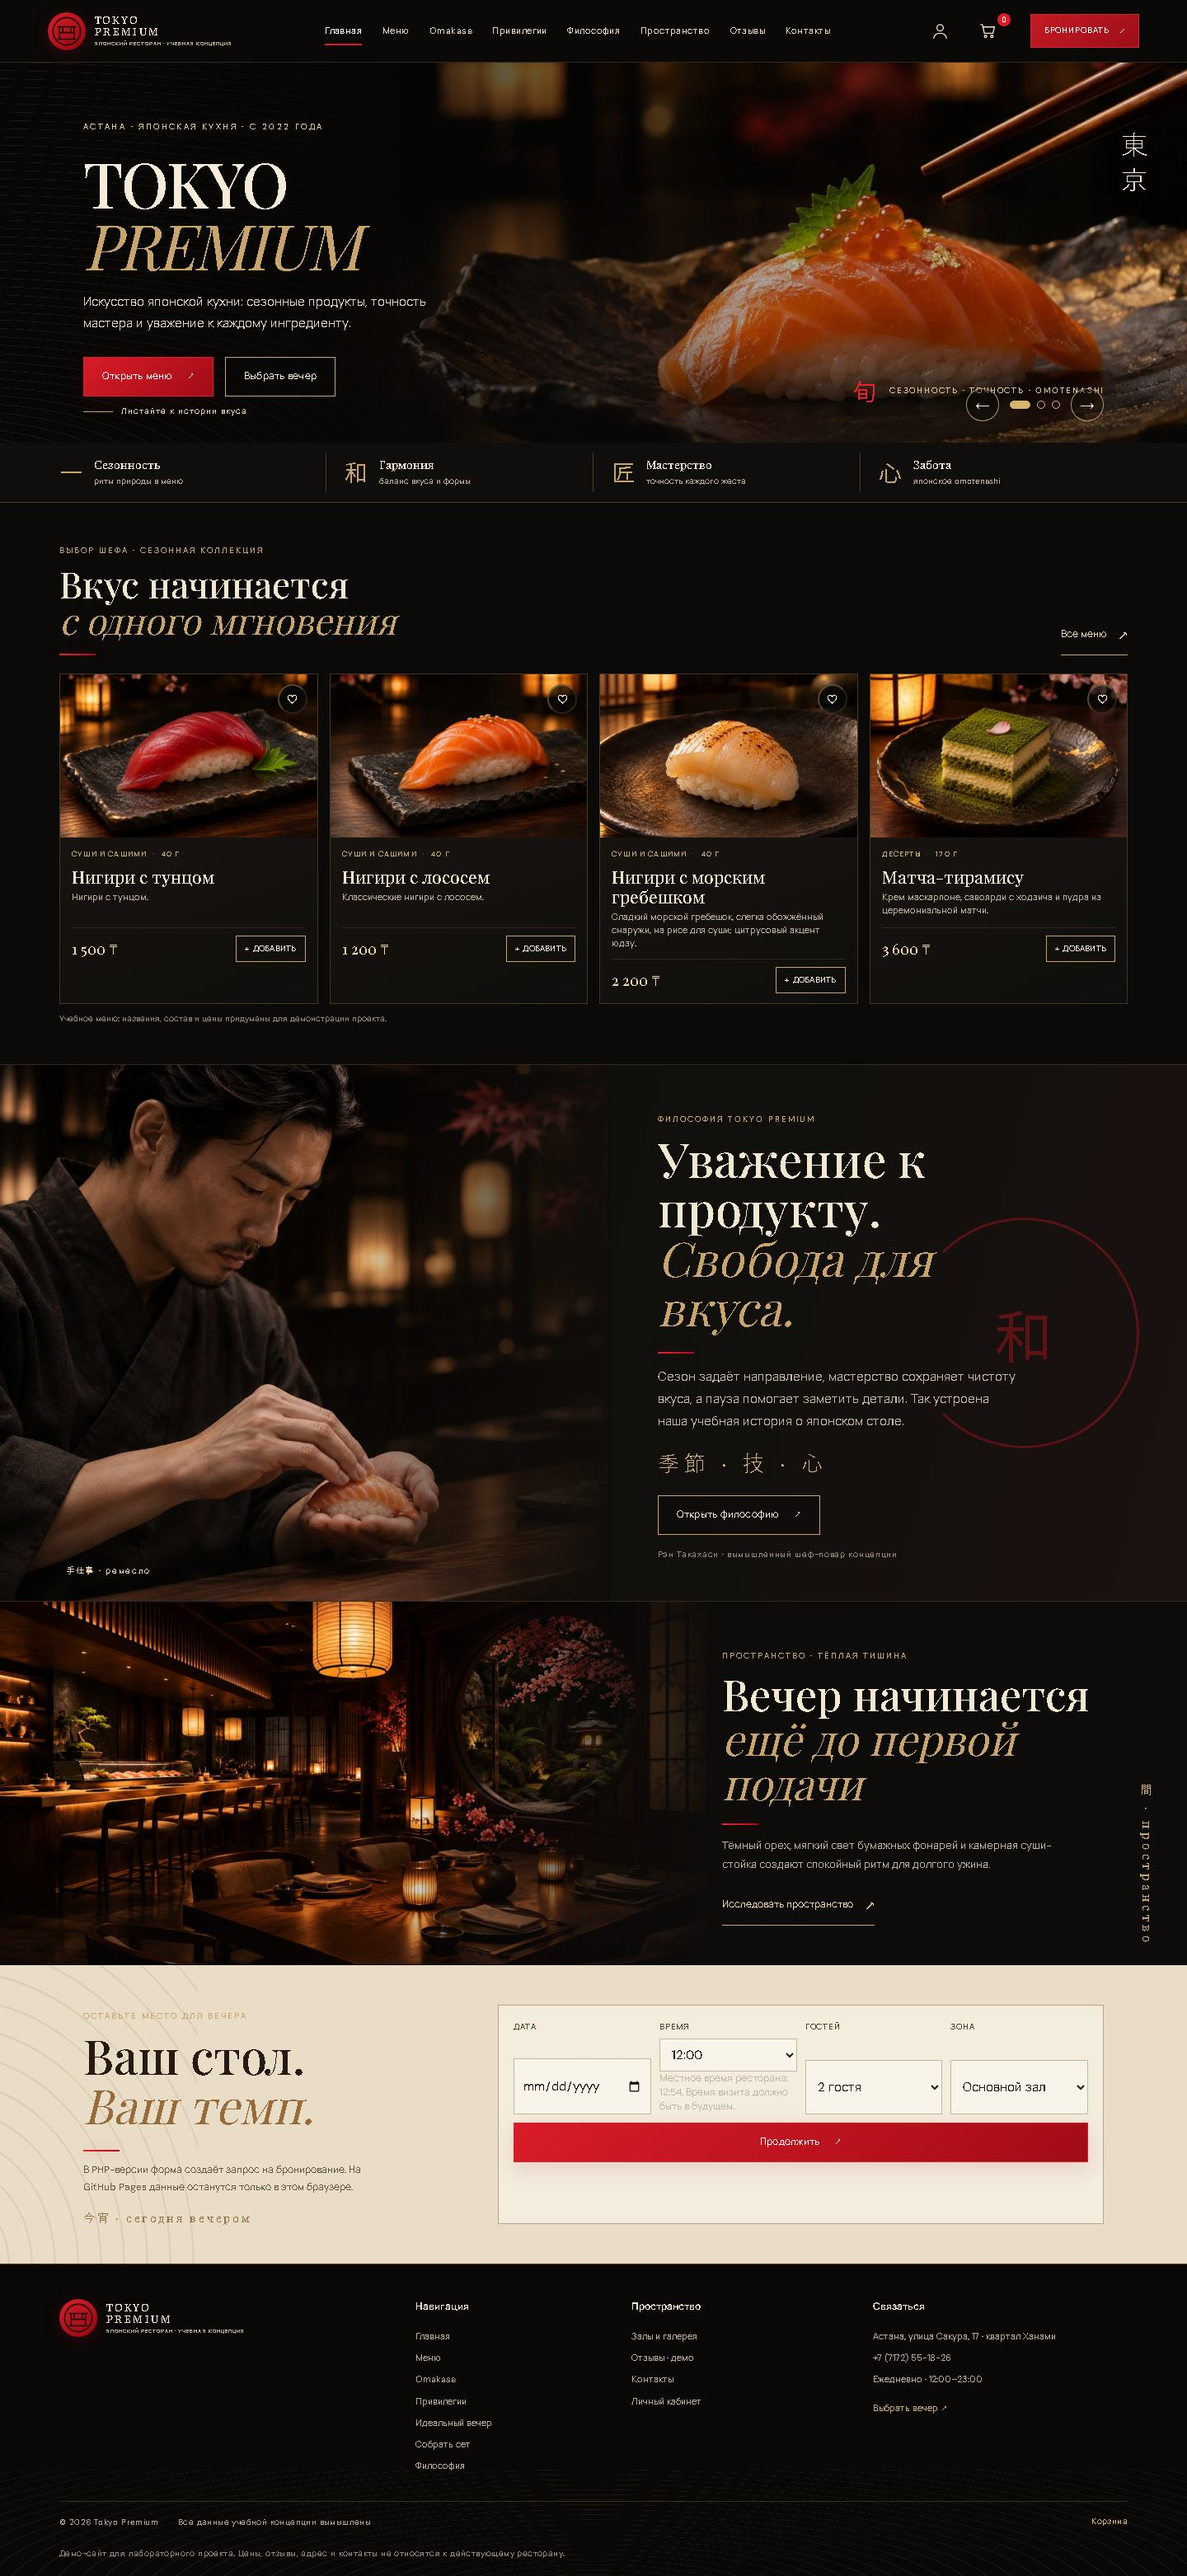
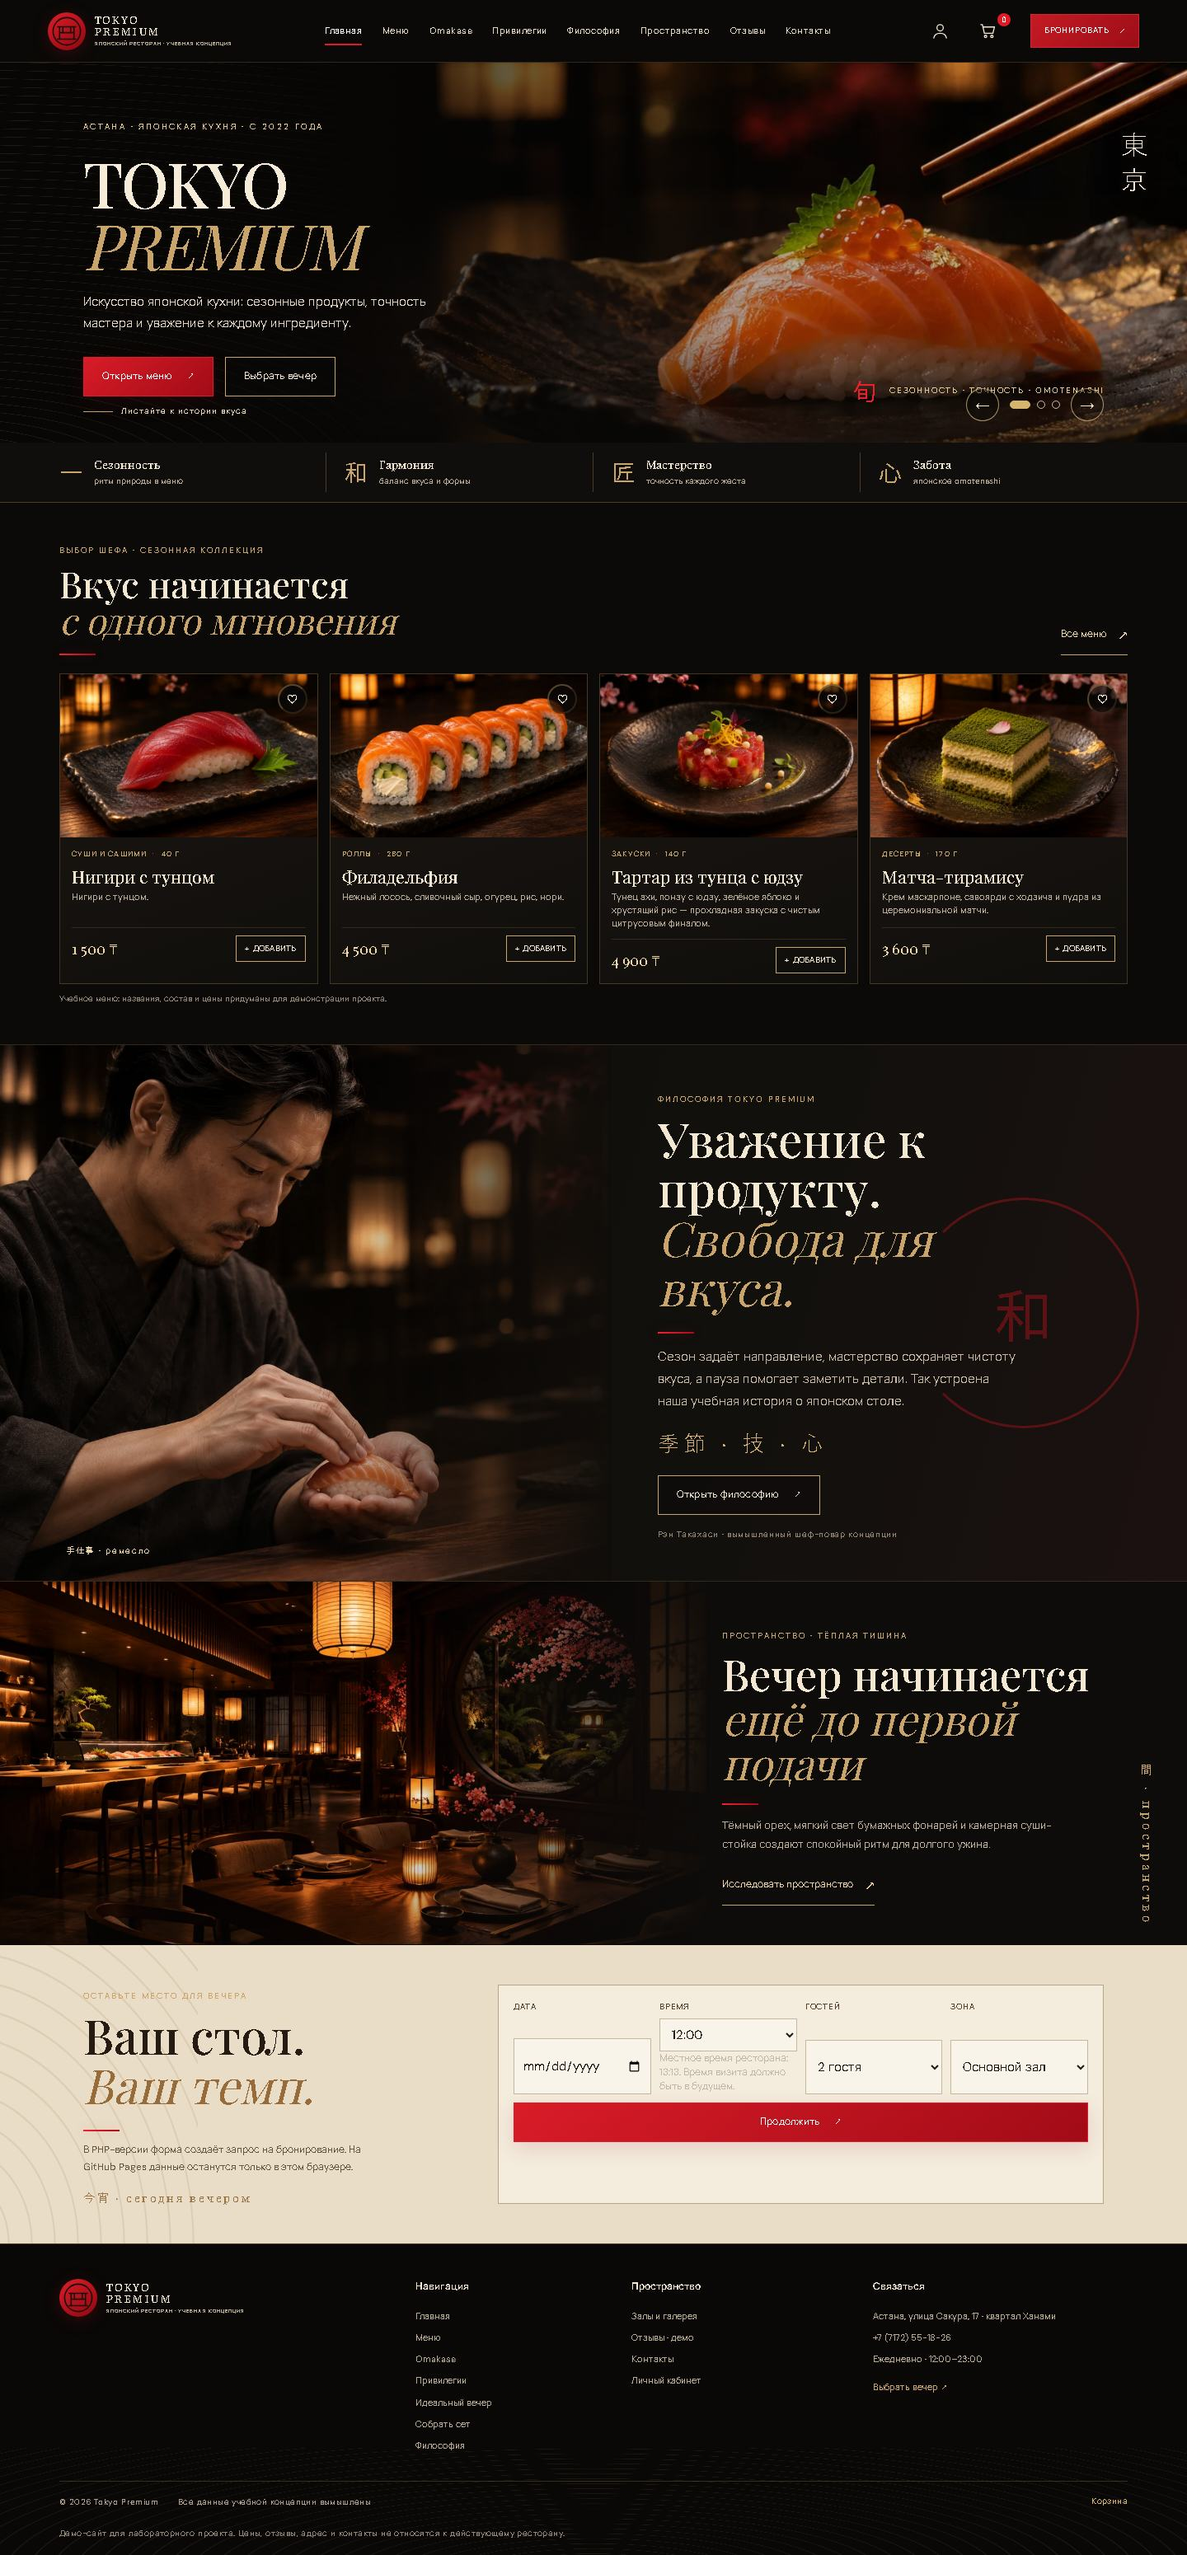
Document published homepage curation QA

diff --git a/project-docs/implementation-plan.md b/project-docs/implementation-plan.md
@@ -8,11 +8,15 @@ Reduced the desktop booking hero and its three explanatory cards so the reservat
 
 ## Current release checkpoint
 
-The latest verified public release is `3d08759` (GitHub Actions run [45134262257](https://github.com/altento/tokyo-premium/actions/runs/45134262257); build and deploy succeeded). Cache-busted public home/cart routes and their changed assets returned HTTP 200. The focused home visual-fidelity regression passed against the public Pages site at desktop and mobile widths; the curated catalog IDs and space-to-booking flow matched the intended structure. The 37-page static export was also checked for Omakase/set-builder parity, booking floorplan status, and checkout quote consistency. Full browser/visual QA remains opt-in and known visual gaps remain open. The PHP admin was checked locally against an isolated SQLite database with synthetic bookings; production data and live email delivery were not tested.
+The latest verified public release is `a8b07ee` (GitHub Actions run [45136549985](https://github.com/altento/tokyo-premium/actions/runs/45136549985); build and deploy succeeded). The homepage now selects four real, public catalog entries with distinct dish types; the focused home visual-fidelity check passed in PHP, static, and public Pages modes. The public 390 px viewport check confirmed no horizontal overflow or page errors. Cache-busted public home/cart routes and their changed assets returned HTTP 200. The 37-page static export was also checked for Omakase/set-builder parity, booking floorplan status, and checkout quote consistency. Full browser/visual QA remains opt-in and known visual gaps remain open. The PHP admin was checked locally against an isolated SQLite database with synthetic bookings; production data and live email delivery were not tested.
 
 ## 2026-11-23 — mobile cart and home editorial follow-ups
 
 The mobile cart summary from `6d21ef6` and home editorial update from `3d08759` are live. The home curation selects four existing public dishes in a stable order and removes duplicate Omakase/sample-review blocks so the page moves from space directly to booking. Focused visual-fidelity checks passed for static, PHP, and public Pages home routes at desktop and mobile widths. Captures and the comparison with reference 01 are in `visual-qa/home-editorial-curation-2026-11-23/`. Tokyo Premium 2.0 remains in progress.
+
+## 2026-11-23 — varied public homepage recommendations
+
+The homepage recommendation row now uses catalog IDs `6, 1, 12, 19` (tuna nigiri, Philadelphia roll, tuna tartare, matcha tiramisu). A previously considered Hanami set is currently restricted by Secret Menu rules and is intentionally not exposed. Focused PHP/static/public visual-fidelity checks passed; the live 390 px viewport showed the same public IDs with no horizontal overflow or browser errors. Screenshots and the CI deployment record are in `visual-qa/home-editorial-curation-2026-11-23/`. This remains a focused reference comparison, not full 11-page visual acceptance.
 
 ## 2026-11-23 — mobile cart checkout access
 

diff --git a/project-docs/final-modernization-report.md b/project-docs/final-modernization-report.md
@@ -669,6 +669,8 @@ Commit `6d21ef6` added a populated-cart bottom summary that reads from `TokyoCar
 
 The PHP, static, and published Pages home routes now show four existing public dishes in an explicit seafood-and-dessert order and move directly from the restaurant-space story into booking. A regression test verifies the selected public dish IDs and section order; focused visual-fidelity runs passed at desktop and mobile widths in all three modes. Static desktop/mobile screenshots were inspected against reference 01; the PHP and public captures are also stored in [`visual-qa/home-editorial-curation-2026-11-23/`](visual-qa/home-editorial-curation-2026-11-23/). GitHub Actions run [45134262257](https://github.com/altento/tokyo-premium/actions/runs/45134262257) passed and deployed commit `3d08759`. This is a focused comparison, not a claim of pixel-perfect parity.
 
+The next curation pass uses four real public items with more varied forms: tuna nigiri, Philadelphia roll, tuna tartare, and matcha tiramisu. The Hanami set was excluded after the static export confirmed it is Secret Menu restricted. Commit `a8b07ee` passed GitHub Actions run [45136549985](https://github.com/altento/tokyo-premium/actions/runs/45136549985). Focused PHP, static, and live Pages browser checks passed; the published 390 px viewport had no horizontal overflow or page errors. Updated captures are stored in [`visual-qa/home-editorial-curation-2026-11-23/`](visual-qa/home-editorial-curation-2026-11-23/).
+
 ## 2026-11-23 — mobile cart checkout access
 
 Added a mobile-only bottom summary for populated carts, sharing its total with `TokyoCart` and opening the existing checkout details with keyboard focus moved to the disclosure. The panel hides on empty carts, while details are expanded, and while mobile navigation is open. Focused cart Playwright checks passed at 390 px and verified fit at 320 px; the PHP cart route returned HTTP 200 with the matching markup. Evidence: [`visual-qa/cart-mobile-summary-2026-11-23/`](visual-qa/cart-mobile-summary-2026-11-23/). This focused improvement does not complete Tokyo Premium 2.0 or assert full reference parity.

diff --git a/project-docs/visual-qa/home-editorial-curation-2026-11-23/README.md b/project-docs/visual-qa/home-editorial-curation-2026-11-23/README.md
@@ -11,9 +11,9 @@ Compared `design-references/01-home.png` with the current PHP and GitHub Pages h
 ## Verification
 
 - Focused `tests/visual-fidelity-regression.cjs` passed for the home route in static and PHP modes at desktop and mobile widths.
-- The test asserts the exact four public item IDs and the direct space-to-booking section order.
+- The test asserts the exact public item IDs `[6, 1, 12, 19]` (tuna nigiri, Philadelphia roll, tuna tartare, matcha tiramisu) and the direct space-to-booking section order.
 - Both static and PHP screenshots were captured; static desktop/mobile screenshots were opened and compared with reference 01. This is a focused visual comparison, not a pixel-level match claim.
-- After commit `3d08759`, the focused home-route checks also passed against the public GitHub Pages site at desktop and mobile widths. Public screenshots are in `public/`; the separately captured 390 px viewport screenshot was inspected, and no horizontal overflow or browser errors were found.
-- GitHub Actions run [45134262257](https://github.com/altento/tokyo-premium/actions/runs/45134262257) passed and deployed the change.
+- After commit `a8b07ee`, the focused home-route check passed against the public GitHub Pages site at desktop and mobile widths. A separate 390 px live viewport check confirmed cards `[6, 1, 12, 19]`, `scrollWidth === 390`, and no page errors; the captured viewport was visually inspected. Public screenshots are in `public/`.
+- GitHub Actions run [45136549985](https://github.com/altento/tokyo-premium/actions/runs/45136549985) passed and deployed the change.
 
-Captures: `home-static-desktop.jpg`, `home-static-mobile.jpg`, `home-php-desktop.jpg`, `home-php-mobile.jpg`.
+Captures: `home-static-desktop.jpg`, `home-static-mobile.jpg`, `home-php-desktop.jpg`, `home-php-mobile.jpg`; public versions and `public/home-mobile-viewport.png` are in `public/`.
